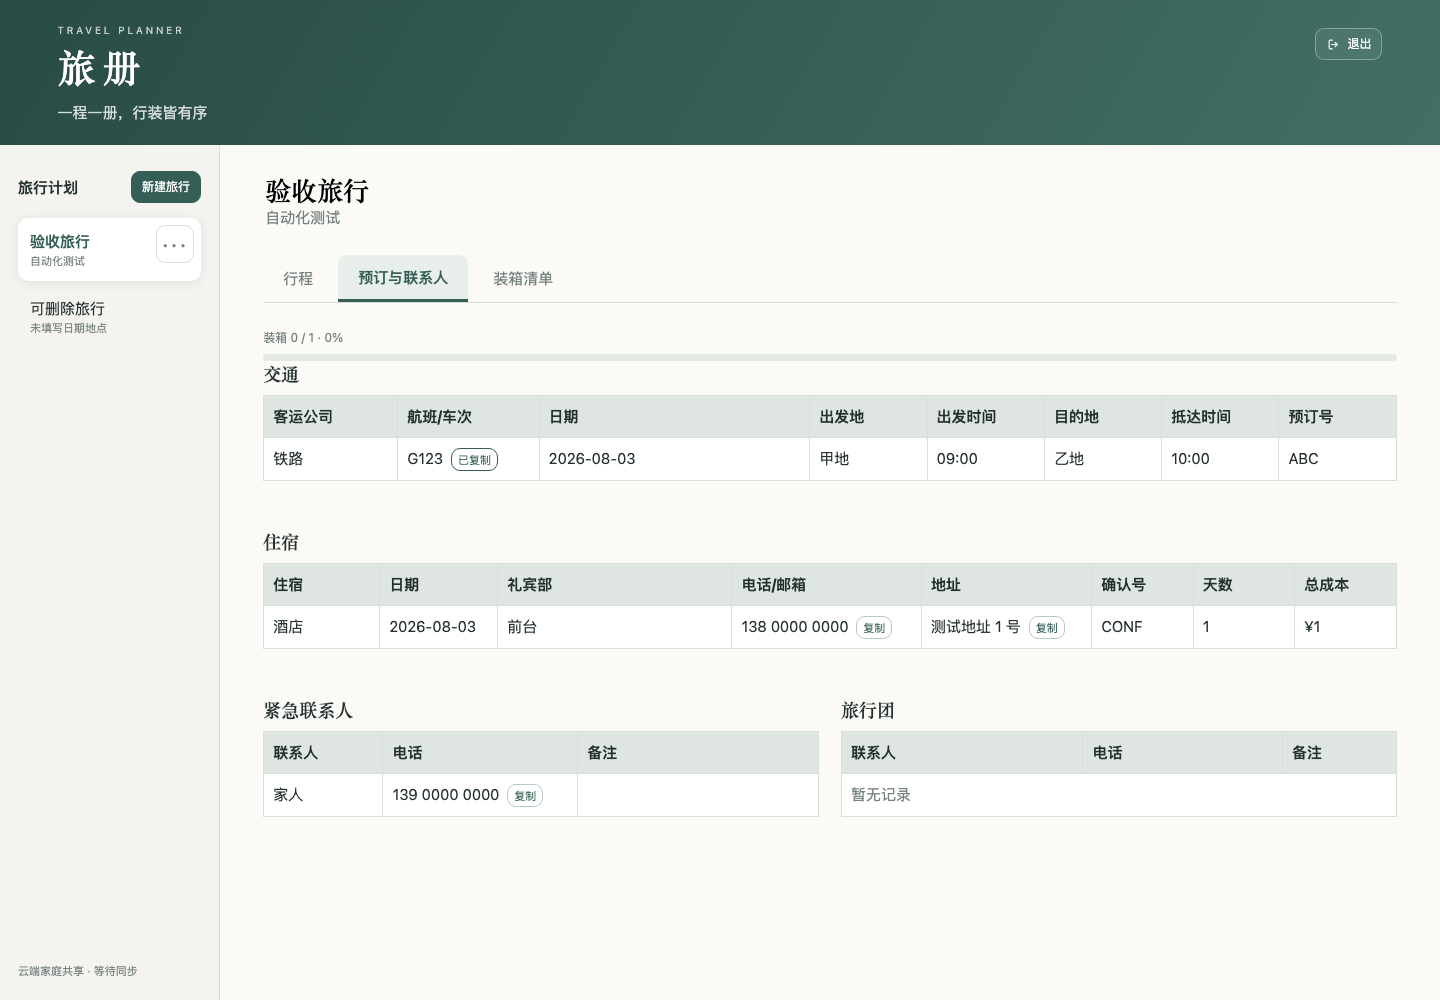
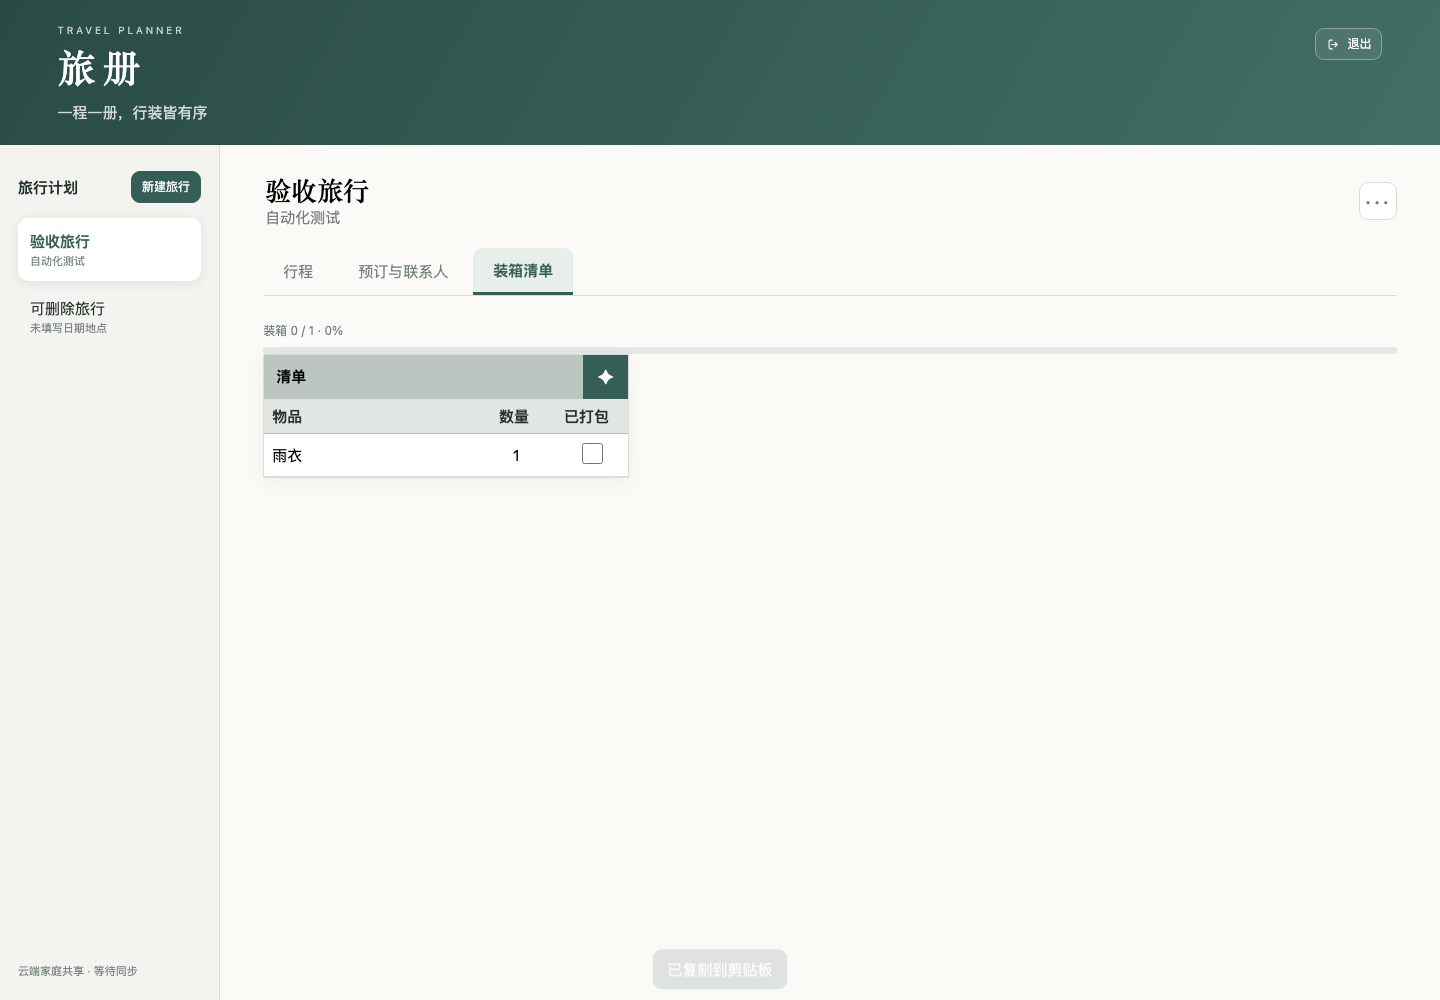
Fix trip action IA and packing progress visibility

diff --git a/test/browser.test.js b/test/browser.test.js
@@ -16,7 +16,18 @@ const document={active:'one',tab:'itinerary',trips:[{id:'one',name:'验收旅行
 test.before(async()=>{await mkdir(join(root,'docs/evidence'),{recursive:true});server=createServer(async(req,res)=>{if(req.url==='/api/trips'){res.setHeader('content-type','application/json');if(req.method==='GET')res.end(JSON.stringify({version:1,data:document}));else res.end(JSON.stringify({version:2})) ;return}let p=req.url==='/'?'index.html':req.url.slice(1);try{let data=await readFile(join(root,p));res.setHeader('content-type',mime[extname(p)]||'application/octet-stream');res.end(data)}catch{res.statusCode=404;res.end()}});await new Promise(r=>server.listen(0,'127.0.0.1',r));base=`http://127.0.0.1:${server.address().port}`;browser=await chromium.launch({executablePath:browserPath,headless:true})});
 test.after(async()=>{await browser?.close();await new Promise(r=>server.close(r))});
 
-test('desktop/mobile UX, delete guard, current day and copy feedback',async()=>{for(const [name,viewport] of [['desktop',{width:1440,height:1000}],['tablet',{width:768,height:900}],['mobile',{width:390,height:844}]]){let context=await browser.newContext({viewport});await context.grantPermissions(['clipboard-read','clipboard-write'],{origin:base});let page=await context.newPage();await page.goto(base);await page.waitForSelector('tr.today');assert.equal(await page.locator('tr.today').count(),1);assert.equal(await page.locator('#logout .logout-icon').count(),1,'logout icon is missing');assert.equal(await page.locator('.aside-title #newTrip').evaluate(el=>getComputedStyle(el).display!=='none'&&getComputedStyle(el).visibility!=='hidden'),true,`${name} new trip action is not visible`);assert.equal(await page.locator('.trip-actions .menu-panel #newTrip').count(),0,'new trip must not be inside active trip menu');await page.locator('summary[aria-label="更多操作"]').click();assert.equal(await page.locator('.trip-actions .menu-panel button').evaluateAll(nodes=>nodes.map(n=>n.textContent.trim()).join('|')),'复制当前旅行|打印|删除旅行','active trip menu contains non-trip actions');await page.locator('summary[aria-label="更多操作"]').click();assert.equal(await page.locator('.itinerary-block .section-title h2').evaluate(el=>getComputedStyle(el).display),'none','redundant itinerary heading is visible');await page.locator('#tabs [data-tab="bookings"]').click();let copy=page.getByRole('button',{name:'复制航班/车次'});await copy.click();assert.equal(await page.evaluate(()=>navigator.clipboard.readText()),'G123');await page.getByText('已复制到剪贴板').waitFor();assert.equal(await page.evaluate(()=>document.documentElement.scrollWidth<=document.documentElement.clientWidth),true,`${name} has page-level horizontal overflow`);if(name==='mobile'){assert.equal(await page.locator('.data-table thead').first().evaluate(el=>getComputedStyle(el).display),'none');assert.equal(await page.locator('.data-table tbody tr').first().evaluate(el=>getComputedStyle(el).display),'block');const logout=await page.locator('#logout').boundingBox(),viewportSize=page.viewportSize();assert.ok(logout&&logout.x>viewportSize.width/2&&logout.y<130,'mobile logout is not in the upper-right header');assert.equal(await page.locator('.toolbar>div:first-child').evaluate(el=>getComputedStyle(el).display),'none','mobile repeats current trip heading');assert.equal(await page.locator('.progress').evaluate(el=>getComputedStyle(el).display),'none','packing progress leaks into another tab');await page.locator('#tabs [data-tab="packing"]').click();assert.notEqual(await page.locator('.progress').evaluate(el=>getComputedStyle(el).display),'none','packing progress is missing');assert.equal(await page.locator('.desktop-toolbar').evaluate(el=>getComputedStyle(el).display),'none','obsolete toolbar creates blank space above packing tabs');const tabsBox=await page.locator('.tabs').boundingBox(),progressBox=await page.locator('.progress').boundingBox();assert.ok(tabsBox&&progressBox&&progressBox.y>tabsBox.y+tabsBox.height,'packing progress must follow tabs');assert.equal(await page.locator('.column-head').first().evaluate(el=>getComputedStyle(el).display),'none');assert.equal(await page.locator('.mobile-check').first().evaluate(el=>getComputedStyle(el).display),'block');assert.equal(await page.locator('.item-qty').first().textContent(),'×1');assert.equal(await page.locator('aside').evaluate(el=>getComputedStyle(el).overflowY),'visible','trip switcher creates nested scrolling');await page.locator('summary[aria-label="更多操作"]').click();const menuBox=await page.locator('.trip-actions .menu-panel').boundingBox(),asideBox=await page.locator('aside').boundingBox();assert.ok(menuBox&&asideBox&&menuBox.y+menuBox.height>asideBox.y+asideBox.height,'menu does not extend beyond switcher');await page.locator('summary[aria-label="更多操作"]').click();await page.locator('#toast').evaluate(el=>el.className='');await page.screenshot({path:join(root,'docs/evidence/ux-mobile-packing.png'),fullPage:true})}if(name!=="tablet")await page.screenshot({path:join(root,`docs/evidence/ux-${name}.png`),fullPage:true});await context.close()}
+async function assertProgressHidden(page,name){
+  assert.equal(await page.locator('.progress').evaluate(el=>getComputedStyle(el).display),'none',`${name} progress is visible on non-packing tab`);
+  assert.equal(await page.locator('.progress').evaluate(el=>el.offsetHeight),0,`${name} hidden progress still takes vertical space`);
+  assert.equal(await page.locator('.progress').boundingBox(),null,`${name} hidden progress has a layout box`);
+}
+
+async function assertProgressVisible(page,name){
+  assert.notEqual(await page.locator('.progress').evaluate(el=>getComputedStyle(el).display),'none',`${name} packing progress is missing`);
+  assert.ok(await page.locator('.progress').evaluate(el=>el.offsetHeight>0),`${name} packing progress has no height`);
+}
+
+test('desktop/mobile UX, delete guard, current day and copy feedback',async()=>{for(const [name,viewport] of [['desktop',{width:1440,height:1000}],['tablet',{width:768,height:900}],['mobile',{width:390,height:844}]]){let context=await browser.newContext({viewport});await context.grantPermissions(['clipboard-read','clipboard-write'],{origin:base});let page=await context.newPage();await page.goto(base);await page.waitForSelector('tr.today');assert.equal(await page.locator('tr.today').count(),1);assert.equal(await page.locator('#logout .logout-icon').count(),1,'logout icon is missing');assert.equal(await page.locator('.aside-title #newTrip').evaluate(el=>getComputedStyle(el).display!=='none'&&getComputedStyle(el).visibility!=='hidden'),true,`${name} new trip action is not visible`);assert.equal(await page.locator('aside .trip-actions').count(),0,'active trip menu must not stay in the switcher');assert.equal(await page.locator('.trip-actions').count(),1,'active trip menu must appear once');assert.equal(await page.locator('.trip-actions .menu-panel #newTrip').count(),0,'new trip must not be inside active trip menu');await assertProgressHidden(page,`${name} itinerary`);await page.locator('summary[aria-label="更多操作"]').click();assert.equal(await page.locator('.trip-actions .menu-panel button').evaluateAll(nodes=>nodes.map(n=>n.textContent.trim()).join('|')),'复制当前旅行|打印|删除旅行','active trip menu contains non-trip actions');const menuBox=await page.locator('.trip-actions .menu-panel').boundingBox(),toolbarBox=await page.locator('.desktop-toolbar').boundingBox(),viewportSize=page.viewportSize();assert.ok(menuBox&&toolbarBox,'active trip menu is not visible');assert.equal(menuBox.x+menuBox.width<=viewportSize.width,true,`${name} menu overflows viewport`);if(viewport.width>680){assert.ok(menuBox.x>=toolbarBox.x+toolbarBox.width/2,`${name} menu is not in the detail header right side`)}else{const summaryBox=await page.locator('.trip-actions summary').boundingBox(),tabsBox=await page.locator('.tabs').boundingBox();assert.equal(await page.locator('.desktop-toolbar .trip-heading').evaluate(el=>getComputedStyle(el).display),'none','mobile repeats current trip heading');assert.ok(summaryBox&&tabsBox&&summaryBox.y<tabsBox.y,'mobile trip actions are not a compact top-level entry')}await page.locator('summary[aria-label="更多操作"]').click();assert.equal(await page.locator('.itinerary-block .section-title h2').evaluate(el=>getComputedStyle(el).display),'none','redundant itinerary heading is visible');await page.locator('#tabs [data-tab="bookings"]').click();await assertProgressHidden(page,`${name} bookings`);let copy=page.getByRole('button',{name:'复制航班/车次'});await copy.click();assert.equal(await page.evaluate(()=>navigator.clipboard.readText()),'G123');await page.getByText('已复制到剪贴板').waitFor();await page.locator('#tabs [data-tab="packing"]').click();await assertProgressVisible(page,name);assert.equal(await page.evaluate(()=>document.documentElement.scrollWidth<=document.documentElement.clientWidth),true,`${name} has page-level horizontal overflow`);if(name==='mobile'){assert.equal(await page.locator('.column-head').first().evaluate(el=>getComputedStyle(el).display),'none');assert.equal(await page.locator('.mobile-check').first().evaluate(el=>getComputedStyle(el).display),'block');assert.equal(await page.locator('.item-qty').first().textContent(),'×1');assert.equal(await page.locator('aside').evaluate(el=>getComputedStyle(el).overflowY),'visible','trip switcher creates nested scrolling');const tabsBox=await page.locator('.tabs').boundingBox(),progressBox=await page.locator('.progress').boundingBox();assert.ok(tabsBox&&progressBox&&progressBox.y>tabsBox.y+tabsBox.height,'packing progress must follow tabs');await page.locator('#toast').evaluate(el=>el.className='');await page.screenshot({path:join(root,'docs/evidence/ux-mobile-packing.png'),fullPage:true})}if(name!=="tablet")await page.screenshot({path:join(root,`docs/evidence/ux-${name}.png`),fullPage:true});await context.close()}
 let page=await browser.newPage();await page.goto(base);await page.getByRole('button',{name:/可删除旅行/}).click();await page.locator('summary[aria-label="更多操作"]').click();await page.getByRole('button',{name:'删除旅行',exact:true}).click();await page.getByText('此操作无法撤销').waitFor();await page.getByRole('button',{name:'永久删除'}).click();await page.getByText('旅行已删除').waitFor();assert.equal(await page.getByRole('button',{name:/可删除旅行/}).count(),0);page.once('dialog',d=>{assert.match(d.message(),/唯一一份旅行/);d.accept()});await page.locator('summary[aria-label="更多操作"]').click();await page.getByRole('button',{name:'删除旅行',exact:true}).click()});
 
 test('A4 landscape print PDF stays within printable page',async()=>{let page=await browser.newPage({viewport:{width:1440,height:1000}});await page.goto(base);for(const [tab,label] of [['itinerary','行程'],['bookings','预订与联系人'],['packing','装箱清单']]){await page.locator(`#tabs [data-tab="${tab}"]`).click();let file=join(root,`docs/evidence/print-${label}.pdf`);await page.pdf({path:file,format:'A4',landscape:true,printBackground:true,preferCSSPageSize:true});let pdf=await PDFDocument.load(await readFile(file));assert.ok(pdf.getPageCount()>=1);for(const p of pdf.getPages()){let {width,height}=p.getSize();assert.ok(width>height);assert.ok(Math.abs(width-841.89)<3&&Math.abs(height-595.28)<3)}}});

diff --git a/index.html b/index.html
@@ -1,7 +1,7 @@
-<!doctype html><html lang="zh-CN"><head><meta charset="utf-8"><meta name="viewport" content="width=device-width,initial-scale=1"><meta name="theme-color" content="#355f56"><title>旅册</title><link rel="stylesheet" href="style.css"></head><body>
+<!doctype html><html lang="zh-CN"><head><meta charset="utf-8"><meta name="viewport" content="width=device-width,initial-scale=1"><meta name="theme-color" content="#355f56"><title>旅册</title><link rel="stylesheet" href="style.css"></head><body data-tab="itinerary">
 <header><div><span class="eyebrow">TRAVEL PLANNER</span><div class="brand-line"><h1>旅册</h1><p id="subtitle">一程一册，行装皆有序</p></div></div><button id="logout" aria-label="退出账户"><svg class="logout-icon" viewBox="0 0 24 24" aria-hidden="true"><path d="M10 5H6.8A1.8 1.8 0 0 0 5 6.8v10.4A1.8 1.8 0 0 0 6.8 19H10M14.5 8.5 18 12l-3.5 3.5M9 12h9"/></svg><span>退出</span></button></header>
-<main><aside><div class="aside-title"><b>旅行计划</b><button id="newTrip" class="primary">新建旅行</button></div><div class="trip-switcher"><nav id="tripList"></nav><div class="trip-actions"><details class="menu toolbar-menu"><summary aria-label="更多操作">•••</summary><div class="menu-panel"><button id="duplicate">复制当前旅行</button><button id="printTrip">打印</button><div class="menu-separator"></div><button class="danger" id="deleteTrip">删除旅行</button></div></details></div></div><div class="account-bar"><span>云端家庭共享 · <span id="syncStatus">正在读取…</span></span></div></aside>
-<section class="workspace"><div class="toolbar desktop-toolbar"><div><input id="tripName" aria-label="旅行名称"><input id="tripMeta" aria-label="日期地点" placeholder="日期 · 地点"></div></div><div class="tabs" id="tabs"><button data-tab="itinerary">行程</button><button data-tab="bookings"><span class="desktop-label">预订与联系人</span><span class="mobile-label">预订</span></button><button data-tab="packing"><span class="desktop-label">装箱清单</span><span class="mobile-label">装箱</span></button></div><div class="module-bar"><strong id="moduleTitle">每日行程</strong><button id="editToggle">编辑</button></div><div class="progress"><span id="progressText"></span><div><i id="progressBar"></i></div></div><div id="tabContent"></div></section></main>
+<main><aside><div class="aside-title"><b>旅行计划</b><button id="newTrip" class="primary">新建旅行</button></div><div class="trip-switcher"><nav id="tripList"></nav></div><div class="account-bar"><span>云端家庭共享 · <span id="syncStatus">正在读取…</span></span></div></aside>
+<section class="workspace"><div class="toolbar desktop-toolbar"><div class="trip-heading"><input id="tripName" aria-label="旅行名称"><input id="tripMeta" aria-label="日期地点" placeholder="日期 · 地点"></div><div class="trip-actions"><details class="menu toolbar-menu"><summary aria-label="更多操作">•••</summary><div class="menu-panel"><button id="duplicate">复制当前旅行</button><button id="printTrip">打印</button><div class="menu-separator"></div><button class="danger" id="deleteTrip">删除旅行</button></div></details></div></div><div class="tabs" id="tabs"><button data-tab="itinerary">行程</button><button data-tab="bookings"><span class="desktop-label">预订与联系人</span><span class="mobile-label">预订</span></button><button data-tab="packing"><span class="desktop-label">装箱清单</span><span class="mobile-label">装箱</span></button></div><div class="module-bar"><strong id="moduleTitle">每日行程</strong><button id="editToggle">编辑</button></div><div class="progress"><span id="progressText"></span><div><i id="progressBar"></i></div></div><div id="tabContent"></div></section></main>
 <dialog id="tripDialog"><form method="dialog"><h2>新建旅行</h2><label>旅行名称<input id="newName" required placeholder="例如：山海行"></label><label>日期与地点<input id="newMeta" placeholder="2026.10 · 厦门"></label><menu><button value="cancel">取消</button><button value="default" id="createTrip" class="primary">创建</button></menu></form></dialog>
 <dialog id="deleteDialog"><form method="dialog"><h2>删除旅行？</h2><p>将永久删除「<strong id="deleteTripName"></strong>」，并同步到云端。此操作无法撤销。</p><p class="dialog-warning">删除后无法恢复，请确认不再需要这份旅行。</p><menu><button value="cancel">取消</button><button value="confirm" id="confirmDeleteTrip" class="danger-solid">永久删除</button></menu></form></dialog>
 <div id="toast" role="status" aria-live="polite"></div>

diff --git a/style.css b/style.css
@@ -205,3 +205,21 @@ header #logout:hover{border-color:#fff;background:#ffffff20}
   .editing .check-cell input{width:20px;height:20px}
   .editing .remove-item{display:block}
 }
+
+/* Current trip operations belong to the detail header, not the trip switcher. */
+.progress{display:none}
+body[data-tab="packing"] .progress{display:block}
+.desktop-toolbar{grid-template-columns:minmax(0,1fr) auto;margin-bottom:18px}
+.trip-heading{min-width:0}
+.trip-actions{position:static;z-index:12;display:flex;justify-self:end;align-items:flex-start;margin-left:0}
+.trip-switcher nav button{padding-right:12px}
+.toolbar-menu .menu-panel{top:calc(100% + 7px)}
+@media print{.trip-actions{display:none!important}}
+@media(max-width:680px){
+  .desktop-toolbar,body[data-tab="packing"] .desktop-toolbar{display:flex;justify-content:flex-end;min-height:38px;margin:0 0 7px}
+  .desktop-toolbar .trip-heading{display:none}
+  .desktop-toolbar .trip-actions{position:static;display:flex;margin:0}
+  .desktop-toolbar .trip-actions .menu summary{height:38px;min-width:40px}
+  .desktop-toolbar .trip-actions .menu-panel{right:0;width:168px}
+  body[data-tab="packing"] .progress{display:block;margin:0 0 14px}
+}
